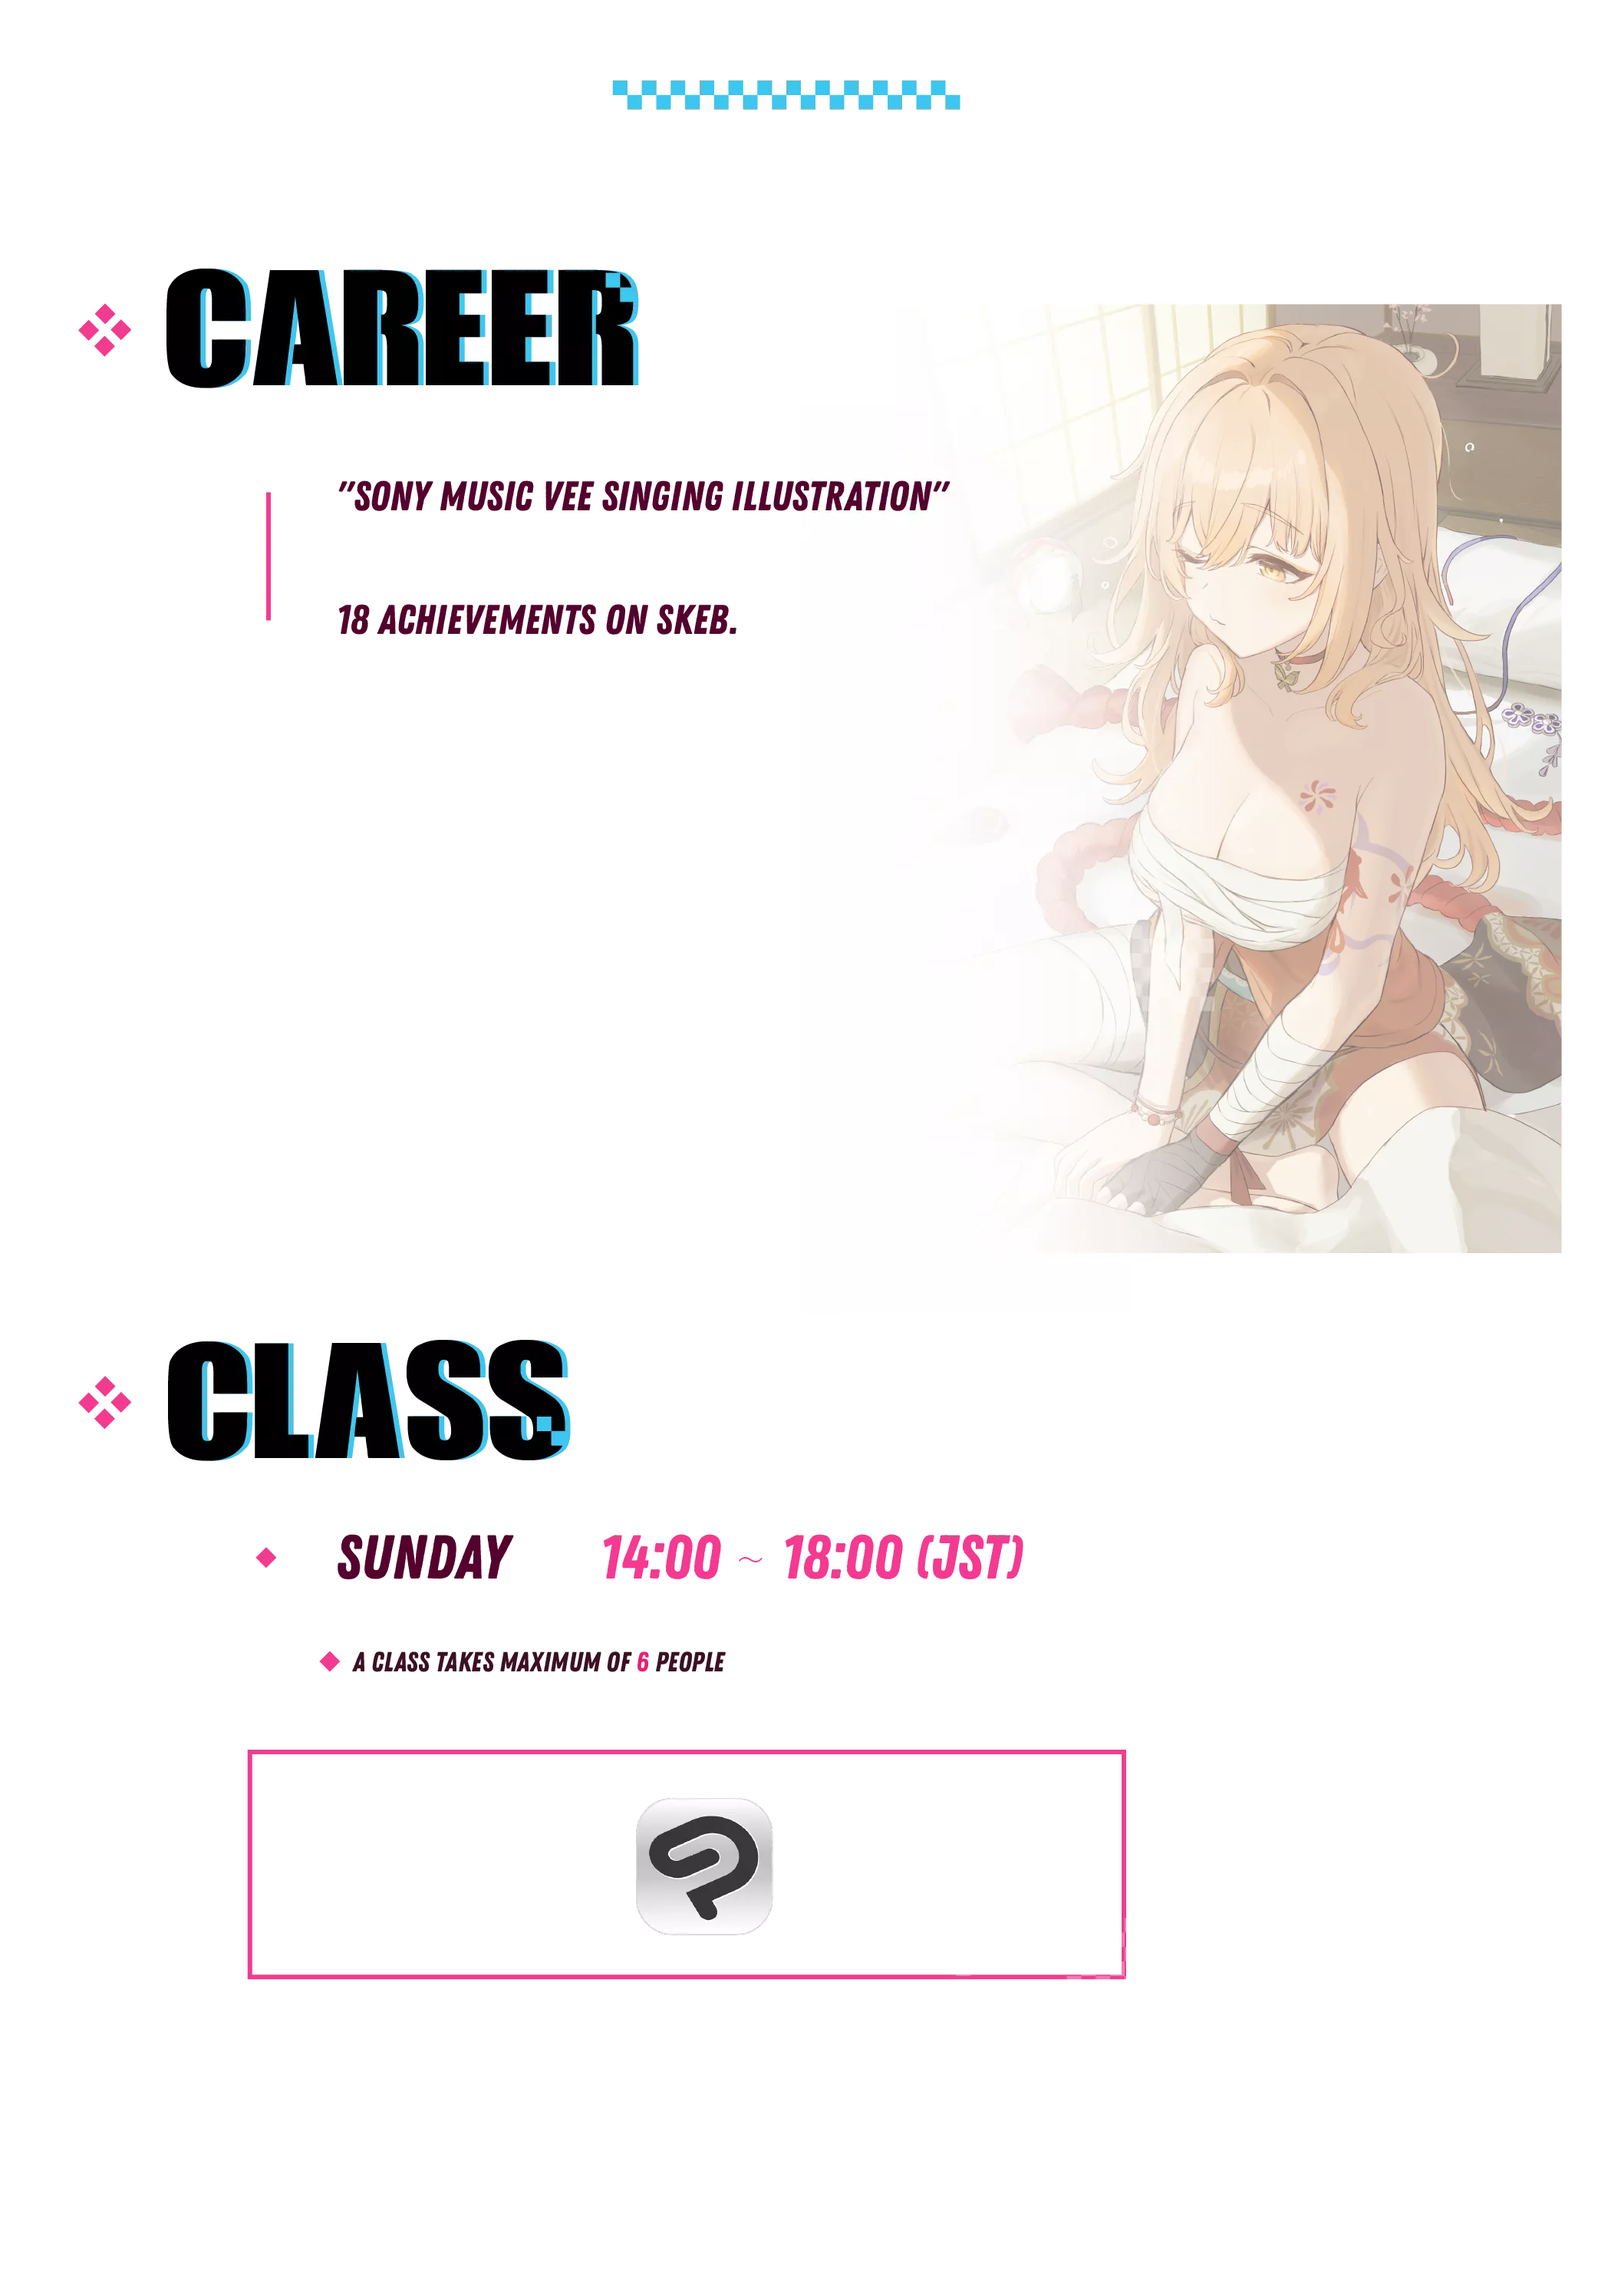
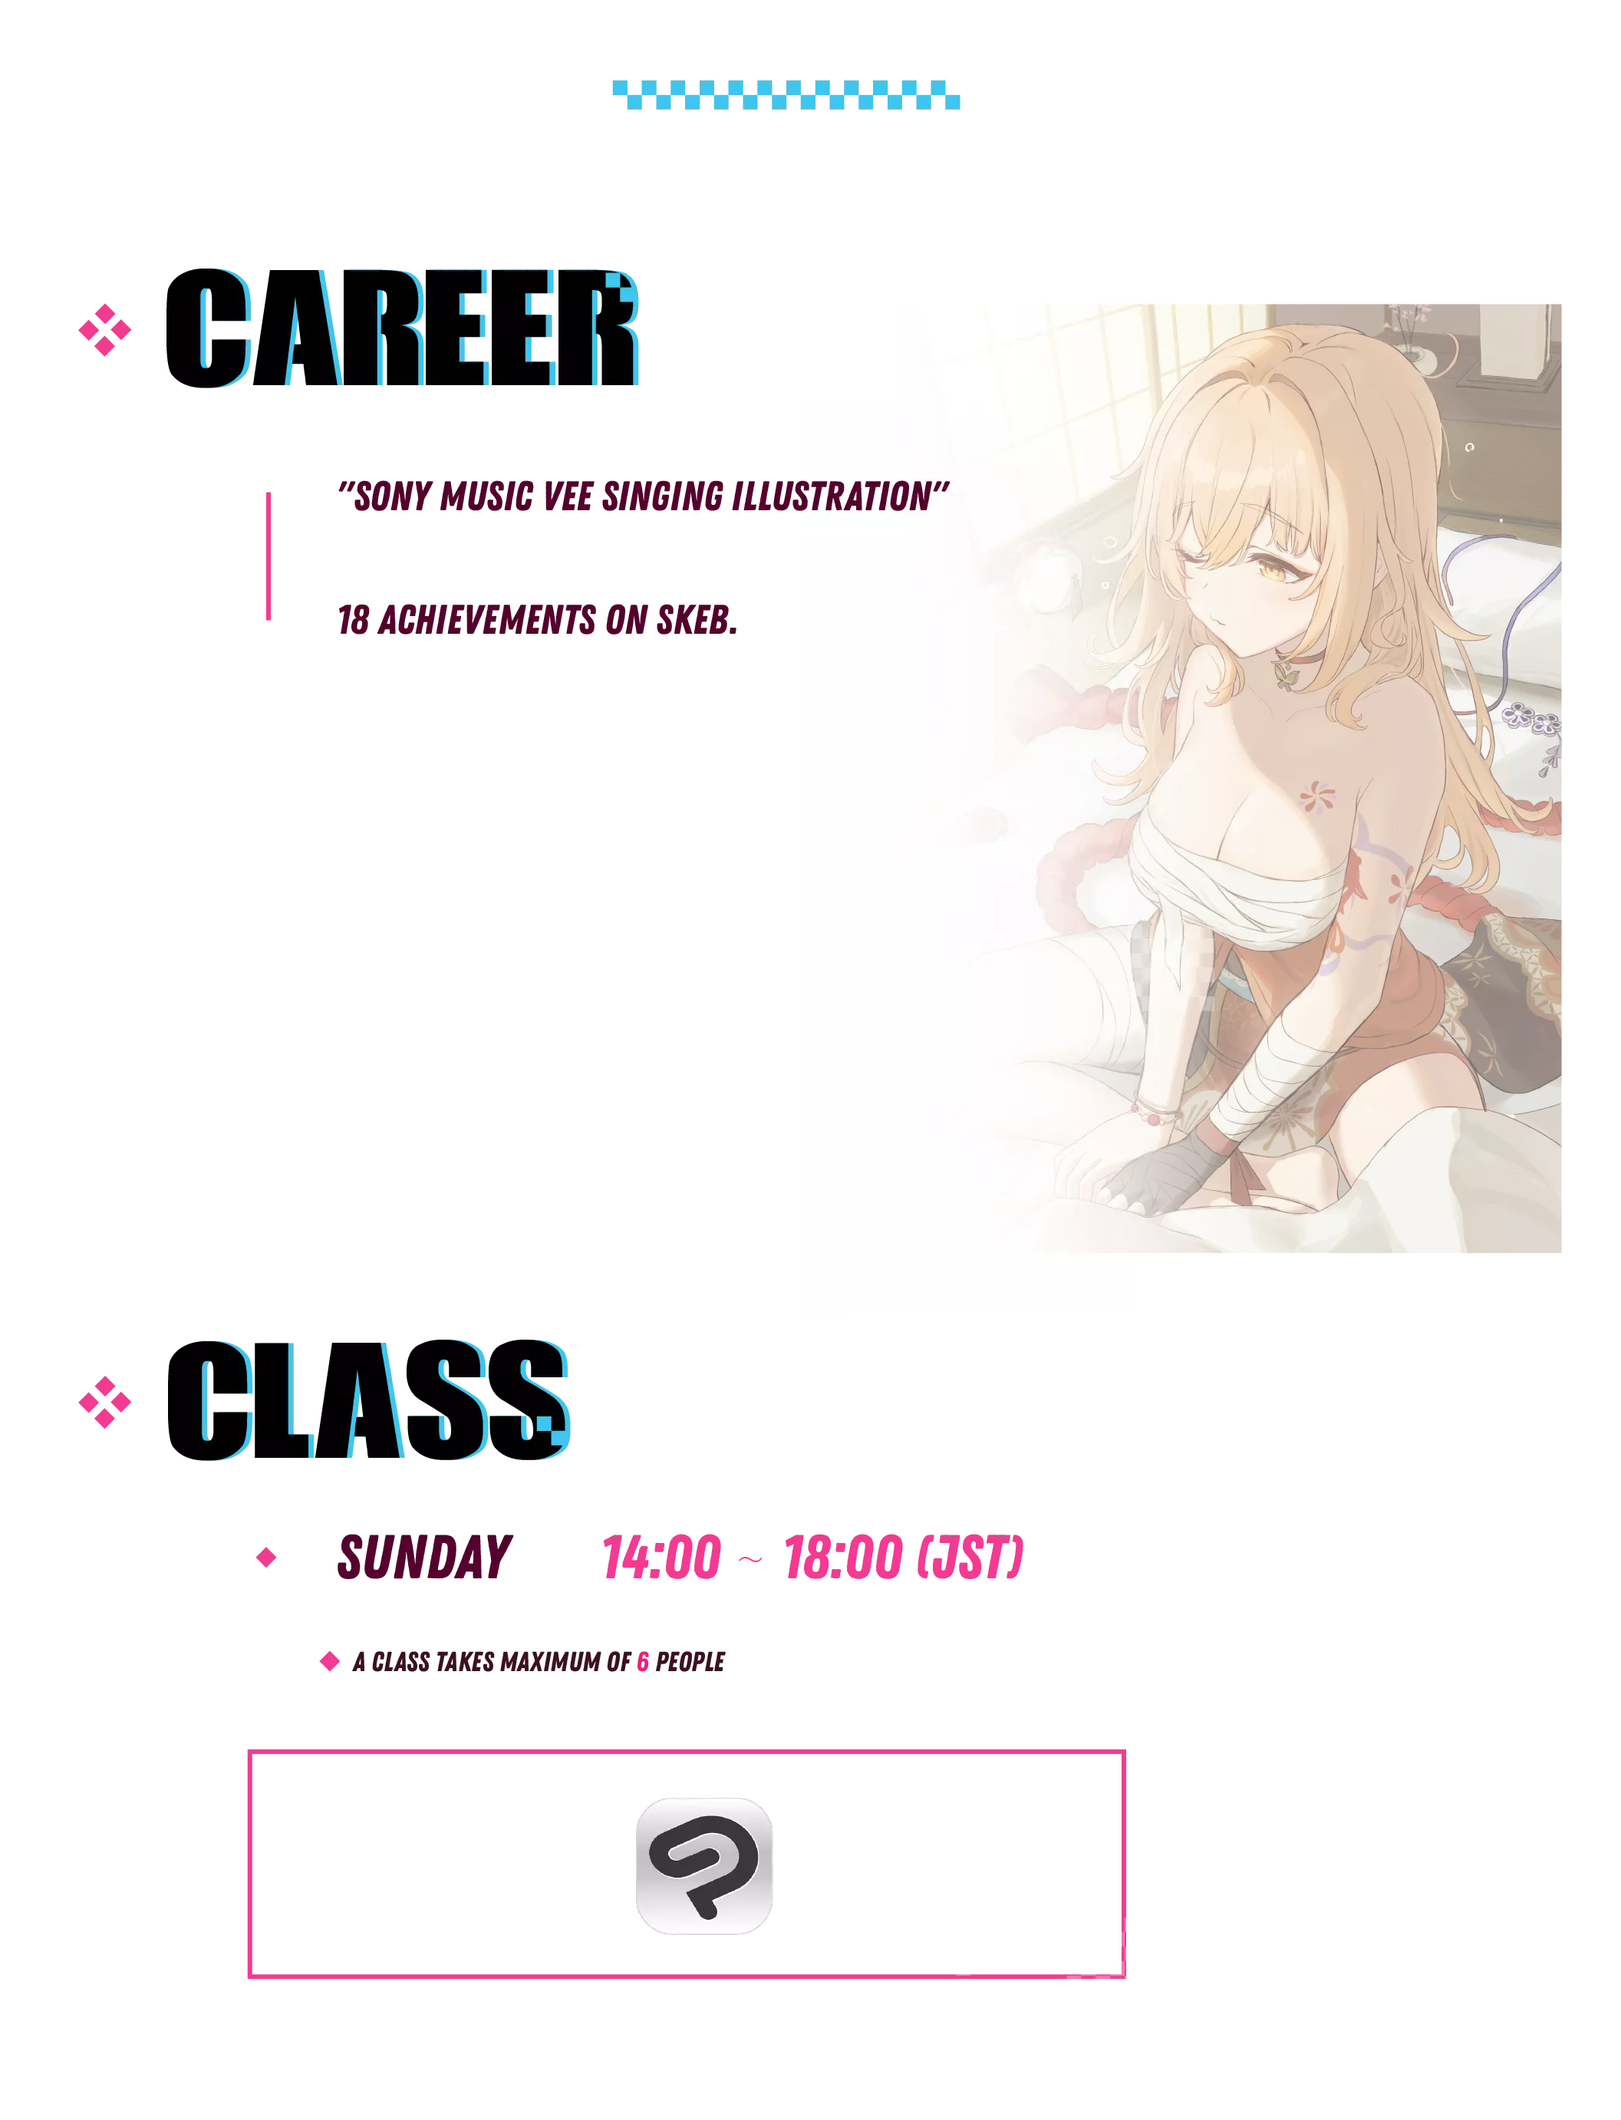
<fix: 이미지파일 및 메인페이지, 커리큘럼 페이지 css수정>

diff --git a/src/data/MentorData.ts b/src/data/MentorData.ts
@@ -10,7 +10,7 @@ import CurriculumDefaultTwitter from '../assets/curriculums/curriculumdefaulttwi
 import CurriculumDefaultInsta from '../assets/curriculums/curriculumdefaultinstagram.webp';
 import CurriculumDefaultArtstation from '../assets/curriculums/curriculumdefaultartstation.webp';
 import CurriculumDefaultPixiv from '../assets/curriculums/curriculumdefaultpixiv.webp';
-import SanpatiThumbnail from '../assets/images/sanpachiimage1.png';
+import SanpatiThumbnail from '../assets/curriculums/sanpati/sanpati_thumbnail.webp';
 import SanpatiSlideBack from '../assets/images/mentorimage.webp';
 import SanpatiSlideNick from '../assets/images/mentorimagetext.webp';
 import SanpatiCurriculum1 from '../assets/curriculums/sanpati/sanpaticurriculum1.png';

diff --git a/src/pages/Home.tsx b/src/pages/Home.tsx
@@ -11,8 +11,6 @@ import MainSlideShow from '../components/HomePage/MainSlideShow';
 import { ScrollContainer } from '../components/common/ScrollContainer';
 import { ScrollAnimation } from '../utils/ScrollAnimation';
 
-const DIVIDER_HEIGHT = 5;
-
 const Home = () => {
 
 //     useEffect(() => {
@@ -87,6 +85,9 @@ const MainLayout = styled.div`
     flex-direction: column;
     /* justify-content: center; */
     z-index: 97;
+    @media (prefers-color-scheme: dark) {
+    .scheme   { background:  #ffffff; color: #fff; }
+    }
 `;
 
 export const MainImage = styled.div`

diff --git a/src/pages/MentorDetail.tsx b/src/pages/MentorDetail.tsx
@@ -94,6 +94,7 @@ const CurriculumSNS = styled.div`
     align-items: center;
     width: 100%;
     gap: 90px;
+    padding: 100px 0px;
 
     @media screen and (max-width: 1100px) {
         width: 100%;
@@ -109,6 +110,7 @@ const SNSIcons = styled.img`
     width: 80px;
     height: 80px;
     object-fit: contain;
+    cursor: pointer;
 
     @media screen and (max-width: 1100px) {
         width: 60px;
